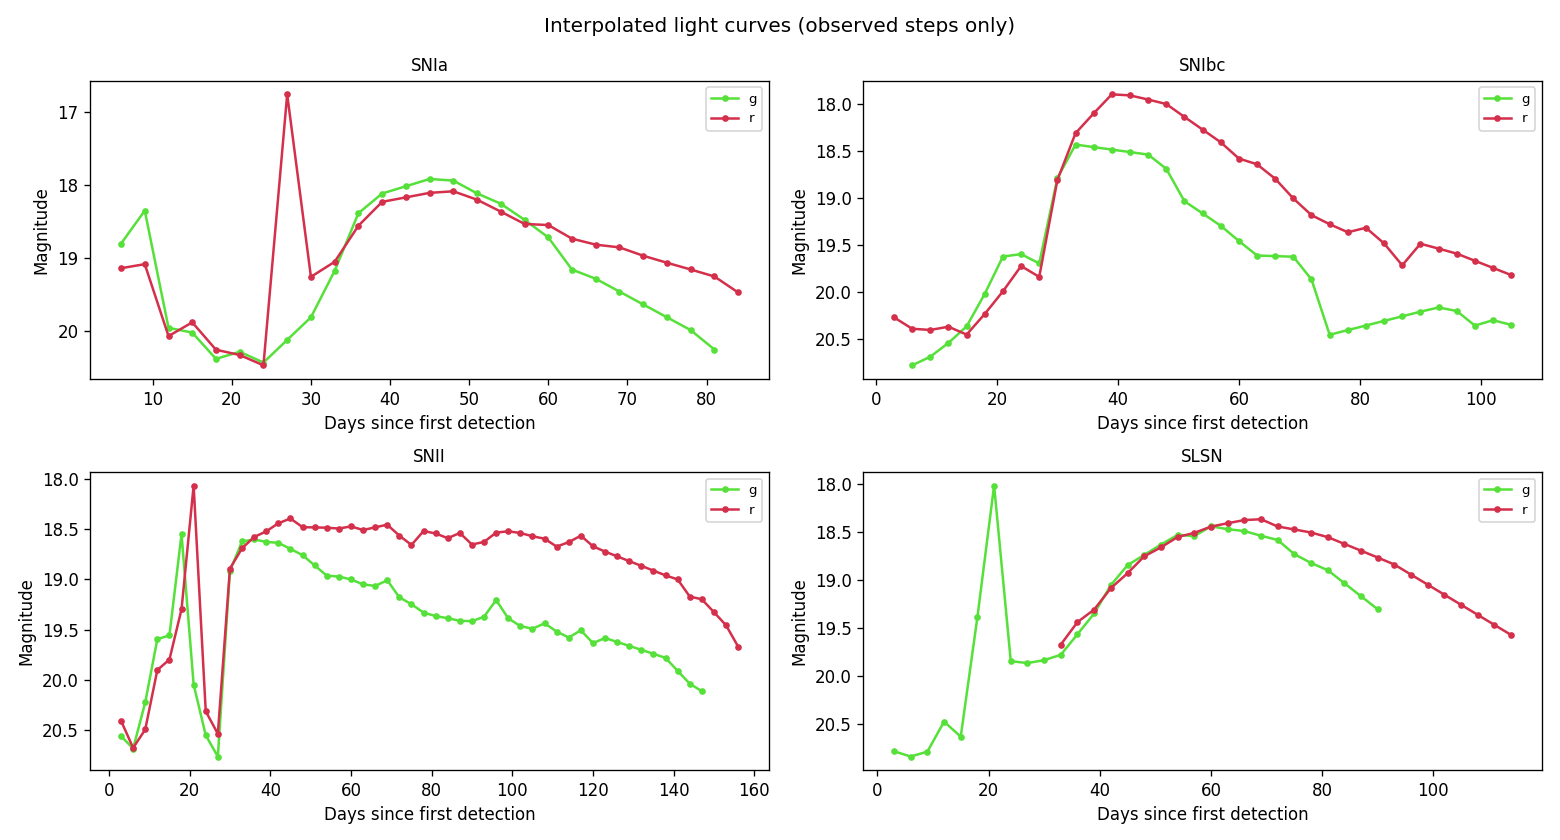
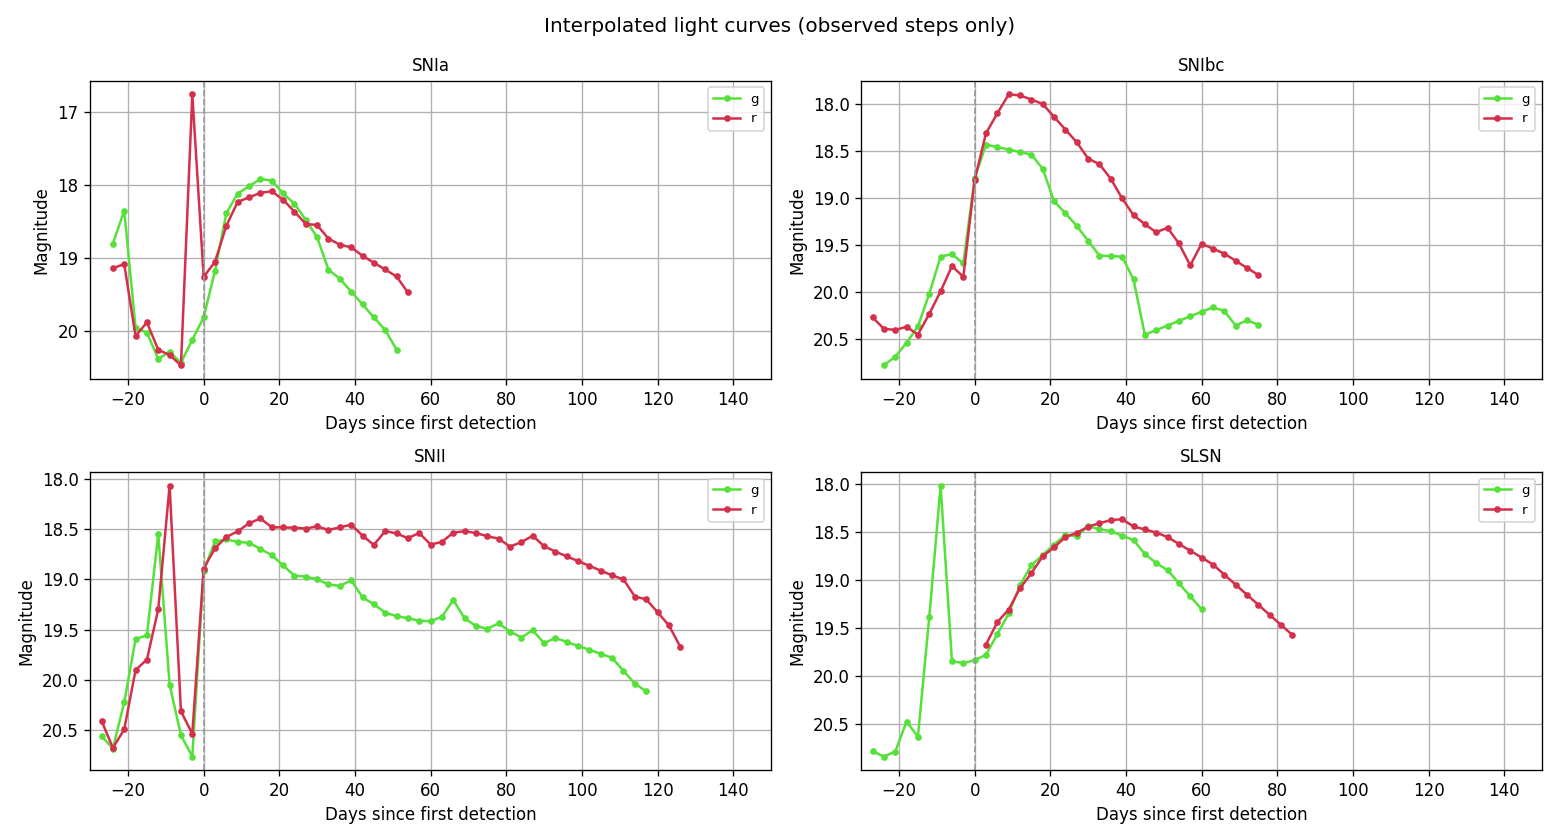
dt update

diff --git a/utils/lc_preprocessing.py b/utils/lc_preprocessing.py
@@ -91,7 +91,6 @@ def interpolate_lc(
     det["dt"] = det["mjd"] - first_mjd
 
     tgrid = np.arange(min_time, eval_date, step=step, dtype=np.float32)
-    times = np.arange(0, eval_date - min_time, step=step, dtype=np.float32)
 
     fluxes = []
     for fid in [1, 2]:
@@ -126,4 +125,5 @@ def interpolate_lc(
 
     fluxes = np.stack(fluxes, axis=-1)          # (T, 2)
     masks  = (fluxes != 0).astype(np.float32)   # (T, 2)
+    times = tgrid
     return fluxes, masks, times